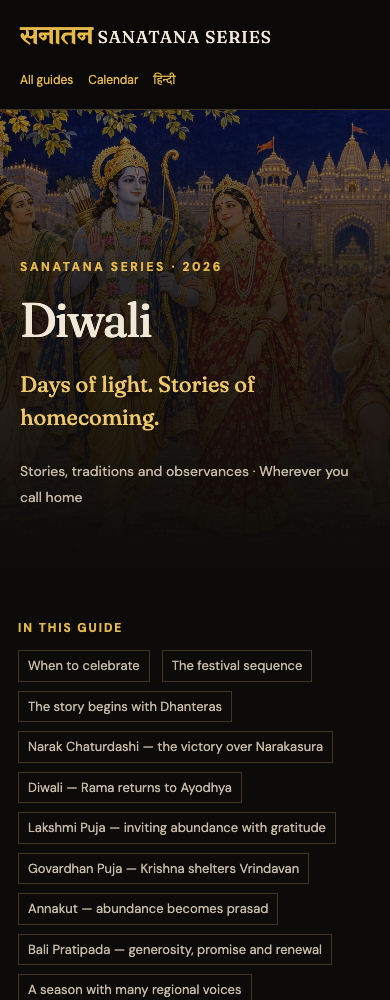
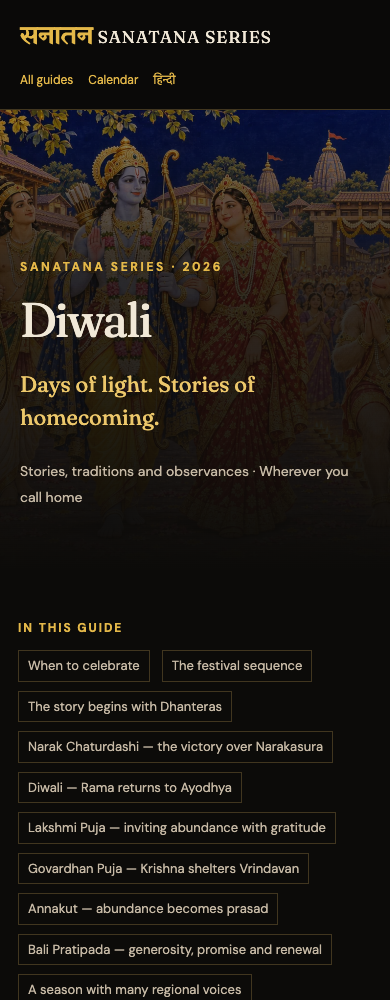
Ground festival artwork in deliberate temple and vernacular settings

Changed region(s): [[0.4, 0.124, 1.0, 0.279], [0.0, 0.124, 0.2462, 0.248]]

diff --git a/diwali-hi.html b/diwali-hi.html
@@ -12,11 +12,11 @@
 <meta property="og:url" content="https://dogvar.github.io/sanatana-series/diwali-hi.html">
 <meta property="og:locale" content="hi_IN">
 <meta property="og:locale:alternate" content="en_GB">
-<meta property="og:image" content="https://dogvar.github.io/sanatana-series/images/rama-ayodhya-2026.webp">
+<meta property="og:image" content="https://dogvar.github.io/sanatana-series/images/rama-ayodhya-2026-architecture-v2.webp">
 <meta name="twitter:card" content="summary_large_image"></head><body class="hi"><a class="skip" href="#content">लेख पर जाएँ</a>
 <nav class="nav" aria-label="मुख्य नेविगेशन"><a class="brand" href="index.html"><b lang="hi">सनातन</b> SANATANA SERIES</a>
 <div class="navlinks"><a href="index.html#guides">सभी गाइड</a><a href="calendar.html">कैलेंडर</a><a href="diwali.html" lang="en" hreflang="en">English</a></div></nav>
-<header class="hero"><img src="images/rama-ayodhya-2026.webp" alt="" width="1672" height="941" fetchpriority="high">
+<header class="hero"><img src="images/rama-ayodhya-2026-architecture-v2.webp" alt="" width="1672" height="941" fetchpriority="high">
 <div class="hero-content">
 <div class="eyebrow">SANATANA SERIES · 2026</div>
 <h1>दीपावली</h1>
@@ -42,7 +42,7 @@
 <p class="when-source">ऊपर दी गई तिथि दृक पंचांग की नई दिल्ली सूची का संदर्भ है। स्थानीय तिथि और मुहूर्त अलग हो सकते हैं।</p>
 <details><summary>तिथियाँ अलग क्यों हो सकती हैं?</summary><p>त्योहार चंद्रतिथि और पूजा के लिए निर्धारित समय पर निर्भर करते हैं। सूर्योदय, सूर्यास्त और क्षेत्रीय परंपरा के कारण विदेश में किसी पर्व का दिन भारत से अलग हो सकता है। अपने शहर और परंपरा का पंचांग देखें।</p></details>
 </section>
-<section class="chapter" id="sequence"><h2>दीपावली का पर्व-क्रम</h2><div class="dates"><div class="festival-day"><img src="images/dhanvantari-2026.webp" alt="" width="1672" height="941" loading="lazy" decoding="async"><div class="festival-day-label"><strong>धनतेरस</strong>कृष्ण त्रयोदशी</div></div><div class="festival-day"><img src="images/narakasura-2026.webp" alt="" width="1672" height="941" loading="lazy" decoding="async"><div class="festival-day-label"><strong>नरक चतुर्दशी</strong>कृष्ण चतुर्दशी</div></div><div class="festival-day"><img src="images/lakshmi-puja-2026.webp" alt="" width="1536" height="1024" loading="lazy" decoding="async"><div class="festival-day-label"><strong>दीपावली / लक्ष्मी पूजा</strong>अमावस्या</div></div><div class="festival-day"><img src="images/govardhan-2026.webp" alt="" width="1672" height="941" loading="lazy" decoding="async"><div class="festival-day-label"><strong>गोवर्धन / अन्नकूट / बलि प्रतिपदा</strong>शुक्ल प्रतिपदा की परंपराएँ</div></div><div class="festival-day"><img src="images/yama-yamuna-2026.webp" alt="" width="1672" height="941" loading="lazy" decoding="async"><div class="festival-day-label"><strong>भाई दूज</strong>शुक्ल द्वितीया</div></div></div><p>यह चंद्रतिथियों पर आधारित पारंपरिक क्रम है। हर क्षेत्र में सभी पर्व लगातार पाँच कैलेंडर दिनों में नहीं पड़ते। अभ्यंग स्नान, मंदिर के अन्नकूट और अन्य स्थानीय आयोजनों का समय अलग से देखें।</p></section>
+<section class="chapter" id="sequence"><h2>दीपावली का पर्व-क्रम</h2><div class="dates"><div class="festival-day"><img src="images/dhanvantari-2026.webp" alt="" width="1672" height="941" loading="lazy" decoding="async"><div class="festival-day-label"><strong>धनतेरस</strong>कृष्ण त्रयोदशी</div></div><div class="festival-day"><img src="images/narakasura-2026-architecture-v2.webp" alt="" width="1672" height="941" loading="lazy" decoding="async"><div class="festival-day-label"><strong>नरक चतुर्दशी</strong>कृष्ण चतुर्दशी</div></div><div class="festival-day"><img src="images/lakshmi-puja-2026.webp" alt="" width="1536" height="1024" loading="lazy" decoding="async"><div class="festival-day-label"><strong>दीपावली / लक्ष्मी पूजा</strong>अमावस्या</div></div><div class="festival-day"><img src="images/govardhan-2026.webp" alt="" width="1672" height="941" loading="lazy" decoding="async"><div class="festival-day-label"><strong>गोवर्धन / अन्नकूट / बलि प्रतिपदा</strong>शुक्ल प्रतिपदा की परंपराएँ</div></div><div class="festival-day"><img src="images/yama-yamuna-2026-architecture-v2.webp" alt="" width="1672" height="941" loading="lazy" decoding="async"><div class="festival-day-label"><strong>भाई दूज</strong>शुक्ल द्वितीया</div></div></div><p>यह चंद्रतिथियों पर आधारित पारंपरिक क्रम है। हर क्षेत्र में सभी पर्व लगातार पाँच कैलेंडर दिनों में नहीं पड़ते। अभ्यंग स्नान, मंदिर के अन्नकूट और अन्य स्थानीय आयोजनों का समय अलग से देखें।</p></section>
 
 <section class="chapter" id="chapter-1">
 <h2>धनतेरस — आरोग्य और समृद्धि</h2>
@@ -56,7 +56,7 @@
 
 <section class="chapter" id="chapter-2">
 <h2>नरक चतुर्दशी — नरकासुर का अंत</h2>
-<figure><img loading="lazy" decoding="async" width="1672" height="941" src="images/narakasura-2026.webp" alt="नरकासुर के नगर के ऊपर गरुड़ पर श्रीकृष्ण और सत्यभामा।"><figcaption>मौलिक कल्पनात्मक चित्रण; धार्मिक घटना का ऐतिहासिक प्रमाण नहीं।</figcaption></figure>
+<figure><img loading="lazy" decoding="async" width="1672" height="941" src="images/narakasura-2026-architecture-v2.webp" alt="नरकासुर के नगर के ऊपर गरुड़ पर श्रीकृष्ण और सत्यभामा।"><figcaption>मौलिक कल्पनात्मक चित्रण; धार्मिक घटना का ऐतिहासिक प्रमाण नहीं।</figcaption></figure>
 <p>लोकप्रचलित कथाओं में नरकासुर के अत्याचारों का अंत श्रीकृष्ण करते हैं। कुछ परम्पराओं में सत्यभामा की भूमिका विशेष महत्त्व रखती है। यह कथा अन्याय से मुक्ति और मानवीय गरिमा की रक्षा का संदेश देती है।</p>
 
 <p>कई घरों में प्रातः तेल लगाकर <strong>अभ्यंग स्नान</strong> किया जाता है। दक्षिण भारत की कुछ परम्पराओं में यही दीपावली का मुख्य उत्सव है। काली चौदस की अपनी अलग क्षेत्रीय रीति भी है।</p>
@@ -68,7 +68,7 @@
 
 <section class="chapter" id="chapter-3">
 <h2>अयोध्या में श्रीराम का स्वागत</h2>
-<figure><img loading="lazy" decoding="async" width="1672" height="941" src="images/rama-ayodhya-2026.webp" alt="अयोध्या में दीपों से होता राम, सीता, लक्ष्मण और हनुमान का स्वागत।"><figcaption>मौलिक कल्पनात्मक चित्रण; धार्मिक घटना का ऐतिहासिक प्रमाण नहीं।</figcaption></figure>
+<figure><img loading="lazy" decoding="async" width="1672" height="941" src="images/rama-ayodhya-2026-architecture-v2.webp" alt="अयोध्या में दीपों से होता राम, सीता, लक्ष्मण और हनुमान का स्वागत।"><figcaption>मौलिक कल्पनात्मक चित्रण; धार्मिक घटना का ऐतिहासिक प्रमाण नहीं।</figcaption></figure>
 <p>रामायण से जुड़ी दीपावली की परम्परा में वनवास और रावण-वध के बाद श्रीराम, सीता और लक्ष्मण का अयोध्या लौटना स्मरण किया जाता है। दीपों से जगमगाता नगर घर-वापसी, धर्म और आशा का प्रतीक बनता है।</p>
 
 <p>यह दीपावली से जुड़ी अनेक परम्पराओं में से एक है। भारत के विभिन्न क्षेत्रों में इस पर्व की कथाएँ और रीति-रिवाज भिन्न हैं।</p>
@@ -116,7 +116,7 @@
 
 <section class="chapter" id="regions">
 <h2>एक पर्व-काल, अनेक परंपराएँ</h2>
-<figure><img loading="lazy" decoding="async" width="1774" height="887" src="images/regional-diwali-festival-2026.webp" alt="तीन क्षेत्रीय परंपराएँ: बंगाल की काली पूजा, दक्षिण भारतीय कोलम व दीप, और महाराष्ट्र का आकाशकंदील।"><figcaption>दीपों के एक पर्व-काल में अनेक क्षेत्रीय परंपराएँ अपनी अलग पहचान बनाए रखती हैं।</figcaption></figure>
+<figure><img loading="lazy" decoding="async" width="1774" height="887" src="images/regional-diwali-festival-2026-architecture-v2.webp" alt="तीन क्षेत्रीय परंपराएँ: बंगाल की काली पूजा, दक्षिण भारतीय कोलम व दीप, और महाराष्ट्र का आकाशकंदील।"><figcaption>दीपों के एक पर्व-काल में अनेक क्षेत्रीय परंपराएँ अपनी अलग पहचान बनाए रखती हैं।</figcaption></figure>
 <p>उत्तर भारत में राम का स्वागत, लक्ष्मी-गणेश पूजा और घर की दीपमालाएँ प्रमुख हैं। तमिल और तेलुगु परिवारों सहित दक्षिण की अनेक परंपराओं में नरक चतुर्दशी का प्रातः स्नान, नए वस्त्र और विशेष भोजन केंद्र में रहते हैं। किसी एक प्रांत की विधि को सबकी अनिवार्य विधि न समझें।</p>
 
 <p>बंगाल तथा पूर्वी भारत के कुछ भागों में काली पूजा का विशेष महत्त्व है। गुजरात में बहीखाता पूजन और नए वर्ष का स्वागत प्रमुख है; महाराष्ट्र में वसुबारस, धनत्रयोदशी, पाडवा और भाऊबीज परिवार की स्मृतियों को जोड़ते हैं। रीति, भोजन और नाम समुदाय के भीतर भी बदल सकते हैं।</p>
@@ -126,7 +126,7 @@
 
 <section class="chapter" id="chapter-7">
 <h2>भाई दूज — स्नेह और मंगलकामना</h2>
-<figure><img loading="lazy" decoding="async" width="1672" height="941" src="images/yama-yamuna-2026.webp" alt="नदी के निकट आँगन में भाई यम को तिलक लगाती यमुना।"><figcaption>मौलिक कल्पनात्मक चित्रण; धार्मिक घटना का ऐतिहासिक प्रमाण नहीं।</figcaption></figure>
+<figure><img loading="lazy" decoding="async" width="1672" height="941" src="images/yama-yamuna-2026-architecture-v2.webp" alt="नदी के निकट आँगन में भाई यम को तिलक लगाती यमुना।"><figcaption>मौलिक कल्पनात्मक चित्रण; धार्मिक घटना का ऐतिहासिक प्रमाण नहीं।</figcaption></figure>
 <p>भाई दूज, यम द्वितीया या भाऊबीज भाई-बहन के प्रेम और एक-दूसरे की कुशलता की कामना का पर्व है। एक कथा में यमुना अपने भाई यम का स्वागत करती हैं और उन्हें तिलक लगाती हैं।</p>
 
 <p>तिलक के लिए स्थानीय द्वितीया तिथि और अपनी परंपरा का अपराह्न काल देखें। अलग देशों में रहने वाले भाई-बहन दोनों घरों की परंपरा का सम्मान करते हुए बातचीत और शुभकामना का समय तय कर सकते हैं।</p>

diff --git a/diwali.html b/diwali.html
@@ -12,11 +12,11 @@
 <meta property="og:url" content="https://dogvar.github.io/sanatana-series/diwali.html">
 <meta property="og:locale" content="en_GB">
 <meta property="og:locale:alternate" content="hi_IN">
-<meta property="og:image" content="https://dogvar.github.io/sanatana-series/images/rama-ayodhya-2026.webp">
+<meta property="og:image" content="https://dogvar.github.io/sanatana-series/images/rama-ayodhya-2026-architecture-v2.webp">
 <meta name="twitter:card" content="summary_large_image"></head><body class="en"><a class="skip" href="#content">Skip to content</a>
 <nav class="nav" aria-label="Main navigation"><a class="brand" href="index.html"><b lang="hi">सनातन</b> SANATANA SERIES</a>
 <div class="navlinks"><a href="index.html#guides">All guides</a><a href="calendar.html">Calendar</a><a href="diwali-hi.html" lang="hi" hreflang="hi">हिन्दी</a></div></nav>
-<header class="hero"><img src="images/rama-ayodhya-2026.webp" alt="" width="1672" height="941" fetchpriority="high">
+<header class="hero"><img src="images/rama-ayodhya-2026-architecture-v2.webp" alt="" width="1672" height="941" fetchpriority="high">
 <div class="hero-content">
 <div class="eyebrow">SANATANA SERIES · 2026</div>
 <h1>Diwali</h1>
@@ -42,7 +42,7 @@
 <p class="when-source">Reference date: Drik Panchang’s New Delhi listing. Your local observance date and puja window may differ.</p>
 <details><summary>Why can dates differ?</summary><p>Festivals follow lunar tithis and the time prescribed for each observance. Local sunrise, sunset and regional traditions can place an observance on a different civil date. Follow the panchang used by your household or temple.</p></details>
 </section>
-<section class="chapter" id="sequence"><h2>The Diwali festival sequence</h2><div class="dates"><div class="festival-day"><img src="images/dhanvantari-2026.webp" alt="" width="1672" height="941" loading="lazy" decoding="async"><div class="festival-day-label"><strong>Dhanteras</strong>Krishna Trayodashi</div></div><div class="festival-day"><img src="images/narakasura-2026.webp" alt="" width="1672" height="941" loading="lazy" decoding="async"><div class="festival-day-label"><strong>Narak Chaturdashi</strong>Krishna Chaturdashi</div></div><div class="festival-day"><img src="images/lakshmi-puja-2026.webp" alt="" width="1536" height="1024" loading="lazy" decoding="async"><div class="festival-day-label"><strong>Diwali / Lakshmi Puja</strong>Amavasya</div></div><div class="festival-day"><img src="images/govardhan-2026.webp" alt="" width="1672" height="941" loading="lazy" decoding="async"><div class="festival-day-label"><strong>Govardhan / Annakut / Bali Pratipada</strong>Shukla Pratipada traditions</div></div><div class="festival-day"><img src="images/yama-yamuna-2026.webp" alt="" width="1672" height="941" loading="lazy" decoding="async"><div class="festival-day-label"><strong>Bhai Dooj</strong>Shukla Dwitiya</div></div></div><p>This is the traditional lunar sequence. The observances do not always fit five consecutive civil dates in every region. Check ritual-specific timings for the abhyanga bath and your temple’s Annakut programme.</p></section>
+<section class="chapter" id="sequence"><h2>The Diwali festival sequence</h2><div class="dates"><div class="festival-day"><img src="images/dhanvantari-2026.webp" alt="" width="1672" height="941" loading="lazy" decoding="async"><div class="festival-day-label"><strong>Dhanteras</strong>Krishna Trayodashi</div></div><div class="festival-day"><img src="images/narakasura-2026-architecture-v2.webp" alt="" width="1672" height="941" loading="lazy" decoding="async"><div class="festival-day-label"><strong>Narak Chaturdashi</strong>Krishna Chaturdashi</div></div><div class="festival-day"><img src="images/lakshmi-puja-2026.webp" alt="" width="1536" height="1024" loading="lazy" decoding="async"><div class="festival-day-label"><strong>Diwali / Lakshmi Puja</strong>Amavasya</div></div><div class="festival-day"><img src="images/govardhan-2026.webp" alt="" width="1672" height="941" loading="lazy" decoding="async"><div class="festival-day-label"><strong>Govardhan / Annakut / Bali Pratipada</strong>Shukla Pratipada traditions</div></div><div class="festival-day"><img src="images/yama-yamuna-2026-architecture-v2.webp" alt="" width="1672" height="941" loading="lazy" decoding="async"><div class="festival-day-label"><strong>Bhai Dooj</strong>Shukla Dwitiya</div></div></div><p>This is the traditional lunar sequence. The observances do not always fit five consecutive civil dates in every region. Check ritual-specific timings for the abhyanga bath and your temple’s Annakut programme.</p></section>
 
 <section class="chapter" id="chapter-1">
 <h2>The story begins with Dhanteras</h2>
@@ -56,7 +56,7 @@
 
 <section class="chapter" id="chapter-2">
 <h2>Narak Chaturdashi — the victory over Narakasura</h2>
-<figure><img loading="lazy" decoding="async" width="1672" height="941" src="images/narakasura-2026.webp" alt="Krishna and Satyabhama on Garuda above the gates of Narakasura’s city."><figcaption>Original interpretive illustration; not a historical reconstruction.</figcaption></figure>
+<figure><img loading="lazy" decoding="async" width="1672" height="941" src="images/narakasura-2026-architecture-v2.webp" alt="Krishna and Satyabhama on Garuda above the gates of Narakasura’s city."><figcaption>Original interpretive illustration; not a historical reconstruction.</figcaption></figure>
 <p>Traditions recount that Narakasura, a tyrannical ruler, caused suffering and held many women captive. Krishna defeats him; in some retellings Satyabhama plays a decisive role. The story celebrates the end of oppression and the restoration of dignity, not violence for its own sake.</p>
 
 <p>In many communities people rise early for an oil massage and ritual bath called <strong>abhyanga snan</strong>, then light lamps and prepare festive food. In parts of southern India this is the central Deepavali morning. Kali Chaudas has distinct regional practices, especially in western India.</p>
@@ -68,7 +68,7 @@
 
 <section class="chapter" id="chapter-3">
 <h2>Diwali — Rama returns to Ayodhya</h2>
-<figure><img loading="lazy" decoding="async" width="1672" height="941" src="images/rama-ayodhya-2026.webp" alt="Rama, Sita, Lakshmana and Hanuman welcomed with lamps in Ayodhya."><figcaption>Original interpretive illustration; not a historical reconstruction.</figcaption></figure>
+<figure><img loading="lazy" decoding="async" width="1672" height="941" src="images/rama-ayodhya-2026-architecture-v2.webp" alt="Rama, Sita, Lakshmana and Hanuman welcomed with lamps in Ayodhya."><figcaption>Original interpretive illustration; not a historical reconstruction.</figcaption></figure>
 <p>In the Ramayana tradition, Rama returns to Ayodhya with Sita and Lakshmana after years in exile and the defeat of Ravana. Later festival tradition remembers the city illuminated in welcome. The lamps evoke a homecoming: truth, loyalty and the hope that hardship does not have the last word.</p>
 
 <p>This is one of several meanings of Diwali, not the only origin of the festival. Different regions remember different divine stories and historical events, yet share the language of light, renewal and community.</p>
@@ -116,7 +116,7 @@
 
 <section class="chapter" id="regions">
 <h2>A season with many regional voices</h2>
-<figure><img loading="lazy" decoding="async" width="1774" height="887" src="images/regional-diwali-festival-2026.webp" alt="Three regional celebrations: Bengali Kali Puja, a South Indian kolam and lamps, and a Maharashtrian akash kandil."><figcaption>Distinct regional traditions share a season of light; their rituals retain their own identities.</figcaption></figure>
+<figure><img loading="lazy" decoding="async" width="1774" height="887" src="images/regional-diwali-festival-2026-architecture-v2.webp" alt="Three regional celebrations: Bengali Kali Puja, a South Indian kolam and lamps, and a Maharashtrian akash kandil."><figcaption>Distinct regional traditions share a season of light; their rituals retain their own identities.</figcaption></figure>
 <p>In much of northern India, Rama’s welcome, Lakshmi-Ganesha worship and household lamps are prominent. In many southern traditions, including Tamil and Telugu households, the Naraka morning bath, new clothes and festive food take a central place. One region’s sequence is not a universal rule.</p>
 
 <p>Kali Puja has particular importance in Bengal and parts of eastern India. Gujarati traditions emphasize account-book worship and the new year; Maharashtra’s Vasu Baras, Dhantrayodashi, Padwa and Bhau Beej connect the season to household life. Names, foods and practices also vary within each region.</p>
@@ -126,7 +126,7 @@
 
 <section class="chapter" id="chapter-7">
 <h2>Bhai Dooj — a blessing between siblings</h2>
-<figure><img loading="lazy" decoding="async" width="1672" height="941" src="images/yama-yamuna-2026.webp" alt="Yamuna applies tilak to her brother Yama beside a river courtyard."><figcaption>Original interpretive illustration; not a historical reconstruction.</figcaption></figure>
+<figure><img loading="lazy" decoding="async" width="1672" height="941" src="images/yama-yamuna-2026-architecture-v2.webp" alt="Yamuna applies tilak to her brother Yama beside a river courtyard."><figcaption>Original interpretive illustration; not a historical reconstruction.</figcaption></figure>
 <p>Bhai Dooj, also called Yama Dwitiya or Bhau Beej, celebrates the affection and mutual care of siblings. A familiar story tells of Yama visiting his sister Yamuna, who welcomes him with hospitality and a ceremonial tilak. In many households sisters bless brothers and share sweets; the underlying message of reciprocal care belongs to all siblings.</p>
 
 <p>For the tilak ceremony, check the local Dwitiya tithi and the afternoon window followed by your tradition. Siblings in different countries may need to agree on a time while respecting each household’s observance.</p>

diff --git a/dhanteras-hi.html b/dhanteras-hi.html
@@ -70,7 +70,7 @@
 
 <section class="chapter" id="hima">
 <h2>राजकुमार, सर्प और प्रकाश की लोककथा</h2>
-<figure><img loading="lazy" decoding="async" width="1536" height="1024" src="images/hima-vigil-2026.webp" alt="दीपों के बीच पति के साथ जागती नववधू और द्वार के बाहर ठहरा सर्प।"><figcaption>मौलिक कल्पनात्मक चित्रण; धार्मिक घटना का ऐतिहासिक प्रमाण नहीं।</figcaption></figure>
+<figure><img loading="lazy" decoding="async" width="1536" height="1024" src="images/hima-vigil-2026-architecture-v2.webp" alt="दीपों के बीच पति के साथ जागती नववधू और द्वार के बाहर ठहरा सर्प।"><figcaption>मौलिक कल्पनात्मक चित्रण; धार्मिक घटना का ऐतिहासिक प्रमाण नहीं।</figcaption></figure>
 <p>एक लोकप्रिय <strong>लोककथा</strong> में राजा हिम के पुत्र की कुंडली में विवाह के चौथे दिन सर्पदंश से मृत्यु का योग बताया गया था। नववधू ने भय के आगे हार नहीं मानी। उसने द्वार पर आभूषण और सिक्के रखे, दीप जलाए और गीत-कथाओं से पति को पूरी रात जगाए रखा।</p>
 
 <p>कथा के अनुसार यम सर्प रूप में आए, पर दीपों की चमक और आभूषणों के तेज से ठिठक गए; सुबह हो गई और राजकुमार बच गया। इस लोककथा के रूपांतर अलग हैं। इसका भाव साहस, प्रेम और सजगता है—इसे दुर्घटना या बीमारी से सुरक्षा की वास्तविक गारंटी नहीं मानना चाहिए।</p>
@@ -88,7 +88,7 @@
 
 <section class="chapter" id="purchase">
 <h2>नया बर्तन खरीदने की परंपरा</h2>
-<figure><img loading="lazy" decoding="async" width="1672" height="941" src="images/vessels-festival-2026.webp" alt="धनतेरस के दीप और फूलों से सजे कारीगर के यहाँ उपयोगी पात्र चुनते माता-पिता और बच्चा।"><figcaption>सोच-समझकर चुना एक उपयोगी पात्र भी धनतेरस की भावना व्यक्त कर सकता है।</figcaption></figure>
+<figure><img loading="lazy" decoding="async" width="1672" height="941" src="images/vessels-festival-2026-architecture-v2.webp" alt="धनतेरस के दीप और फूलों से सजे कारीगर के यहाँ उपयोगी पात्र चुनते माता-पिता और बच्चा।"><figcaption>सोच-समझकर चुना एक उपयोगी पात्र भी धनतेरस की भावना व्यक्त कर सकता है।</figcaption></figure>
 <p>धनतेरस पर नया बर्तन, चाँदी का सिक्का, आभूषण या घर की उपयोगी वस्तु लाने की परंपरा है। यह समृद्धि के स्वागत और गृहस्थी की जिम्मेदारी का प्रतीक है। अपनी सामर्थ्य से अधिक खर्च करना कोई धार्मिक आवश्यकता नहीं है।</p>
 
 <p>विद्यार्थी या युवा परिवार के लिए एक साधारण कटोरी, बजट लिखने की कॉपी या जरूरतमंद की सहायता भी इस दिन का अर्थ प्रकट कर सकती है। केवल दिखावे के लिए कर्ज लेना त्योहार की मूल भावना से दूर ले जाता है। सोना-चाँदी खरीदें तो शुद्धता, मूल्य और रसीद अवश्य जाँचें।</p>

diff --git a/dhanteras.html b/dhanteras.html
@@ -70,7 +70,7 @@
 
 <section class="chapter" id="hima">
 <h2>The prince, the serpent and a night of light</h2>
-<figure><img loading="lazy" decoding="async" width="1536" height="1024" src="images/hima-vigil-2026.webp" alt="A bride keeps a lamplit vigil beside her husband while a serpent pauses outside."><figcaption>Original interpretive illustration; not a historical reconstruction.</figcaption></figure>
+<figure><img loading="lazy" decoding="async" width="1536" height="1024" src="images/hima-vigil-2026-architecture-v2.webp" alt="A bride keeps a lamplit vigil beside her husband while a serpent pauses outside."><figcaption>Original interpretive illustration; not a historical reconstruction.</figcaption></figure>
 <p>A much-loved <strong>folk legend</strong> tells of King Hima’s son, whose horoscope foretold death by snakebite on the fourth night after his wedding. His young wife refused to surrender to fear. She placed ornaments and coins at the doorway, lit lamps everywhere, and kept her husband awake with songs and stories.</p>
 
 <p>When Yama approached in the form of a serpent, the dazzling light and the bright heap of ornaments delayed him until dawn. The prince survived. Versions of the tale differ in details, but its emotional heart remains the same: courage, alertness and love can turn a night of dread into one of hope. It is folklore, not a guarantee that lamps or valuables prevent harm.</p>
@@ -88,7 +88,7 @@
 
 <section class="chapter" id="purchase">
 <h2>Why people bring home a new vessel</h2>
-<figure><img loading="lazy" decoding="async" width="1672" height="941" src="images/vessels-festival-2026.webp" alt="A parent and child choose a useful vessel beside brass bowls, flowers and a Dhanteras lamp."><figcaption>A useful vessel, chosen with care, can carry the meaning of Dhanteras.</figcaption></figure>
+<figure><img loading="lazy" decoding="async" width="1672" height="941" src="images/vessels-festival-2026-architecture-v2.webp" alt="A parent and child choose a useful vessel beside brass bowls, flowers and a Dhanteras lamp."><figcaption>A useful vessel, chosen with care, can carry the meaning of Dhanteras.</figcaption></figure>
 <p>Across many communities, Dhanteras is a day to buy something durable: a small brass or steel utensil, a silver coin, jewellery or an item genuinely useful to the home. The object is a symbol of welcoming abundance and caring for household resources. It is not a requirement to spend beyond your means.</p>
 
 <p>For a student or young family, even a simple kitchen bowl, a notebook for financial planning, or a contribution to someone in need can express the day’s spirit. Buying on credit merely to follow a trend misses the deeper message. If purchasing precious metals, compare prices and purity and keep receipts.</p>

diff --git a/index.html b/index.html
@@ -384,7 +384,7 @@ var G=[
   d:'Dhanvantari, the churning ocean, the Yama lamp and the meaning of wealth. Festival dates and guidance for celebrating wherever you live.'},
  {c:'festivals',h:'diwali.html',hi:'diwali-hi.html',s:'2026-11-08',
   k:'The festival of lights',t:'Diwali',dv:'दीपावली',motif:'lamp',hue:35,
-  img:'images/rama-ayodhya-2026.webp',
+  img:'images/rama-ayodhya-2026-architecture-v2.webp',
   d:'The full Diwali season: Naraka, Rama, Lakshmi Puja, Govardhan, Annakut, Bali and Bhai Dooj. Regional dates explained.'},
 
  {c:'epics',h:'gita.html',hi:'gita-hi.html',ever:1,k:'Scripture',t:'Bhagavad Gita',dv:'भगवद्गीता',

diff --git a/docs/illustration-architecture-review.md b/docs/illustration-architecture-review.md
@@ -1,0 +1,36 @@
+# Illustration setting and architecture review
+
+Reviewed 5 November 2026 for the Dhanteras and Diwali guide pair after the owner flagged the architectural vocabulary.
+
+## Editorial finding
+
+The broad phrase “Indian miniature-inspired” did not constrain architecture sufficiently. Several images acquired a generic later court-palace vocabulary: domed pavilions, ornate cusped portals and decorative arcades, including in imagined epic settings. Those backdrops were not supported by a story-specific architectural brief and needed correction.
+
+A building's religion cannot be reliably inferred from one arch shape. Hindu temple shrine frames, ritual canopies and regional domestic architecture should not be rejected simply because they contain curves or share artistic vocabulary with other traditions. The review distinguishes narrative/region fit from unsupported religious labeling.
+
+## Targeted revisions
+
+| Illustration | Problem addressed | Revised direction |
+|---|---|---|
+| Rama's return | Generic later palace gateway, domed skyline and cusped galleries | Imagined timber/stone city, straight post-and-lintel gateways, pillared verandas and distant North Indian temple shikharas; no claim to reconstruct ancient Ayodhya |
+| Krishna and Narakasura | Generic domed court-fort | Imagined hill fort with masonry ramparts, timber buildings, pitched roofs and a rectangular gateway; no imposed temple in the asura city |
+| Hima household folklore | Palace portal and distant domed pavilion unrelated to the household tale | Timber-and-stone veranda, straight lintels, rectangular doors and simple pitched garden canopy |
+| Yama and Yamuna | Generic domed river pavilions | Open ritual mandapa, stone pillars, straight lintels and regional temple forms beyond the river steps |
+| Dhanteras vessels | Craft shop rendered as an elaborate palace | Vernacular timber craft shop, rectangular opening, shelves and lime-plaster walls |
+| Regional triptych | A repeated architectural arch imposed across three distinct regional scenes | Straight rectangular panels and botanical ornament; Bengali pandal, South Indian courtyard and Maharashtrian home retain their separate settings |
+
+Original paintings are retained as superseded assets. Active article, homepage, overview-card and social-preview references point to versioned revised images. The asset provenance record preserves the previous prompt/path/hash alongside each revision.
+
+## Retained artwork
+
+Samudra Manthan, Dhanvantari and Govardhan primarily use cosmic/ocean/landscape settings. The household Yama lamp and family-puja scene use domestic contexts. Lakshmi, Annakut and Vamana/Bali include devotional shrine frames or ritual-pavilion elements; these are not identified as mosques or as exclusively belonging to another faith. These eight images do not require a replacement merely on the basis of a curved decorative element.
+
+## Visual reference basis
+
+- [Archaeological Survey of India, Temple Survey Project — temple components and regional styles](https://tspasibhopal.nic.in/temple/about_the_temple.html): mandapa, curvilinear northern shikhara and its crowning forms. A vocabulary reference, not evidence for the date or appearance of an epic city.
+- [National Crafts Museum — vernacular architecture and craft context](https://nationalcraftsmuseum.nic.in/about-us): domestic materials, carved craftwork and regional vernacular settings.
+- [India Cine Hub — Vishrambag Wada](https://indiacinehub.gov.in/location/vishrambag-wada): a documented Maratha wooden domestic/court building reference, used for regional craft/home vocabulary only, not as a template for an ancient epic setting.
+
+## Review limits
+
+These are AI-assisted interpretive devotional paintings. Architectural corrections do not make them archaeological reconstructions or establish the historical dating of religious narratives. Character identity, ritual context and regional details still need editorial care. No religion is associated with negative qualities, and no building is classified solely by its arch or roof shape.

diff --git a/docs/festival-workflow.md b/docs/festival-workflow.md
@@ -21,3 +21,7 @@ Install Python Playwright in a virtual environment, then run `playwright install
 ## Audience and date presentation
 
 Write for the global diaspora. Keep the guide’s opening and practical advice independent of one country. A When section separates a labeled, sourced annual reference date from its lunar observance and a clear path to local timing. Never imply that static HTML adjusts to the reader. A city-selection link should open the correct festival and year. If exact clock windows are shown in a future edition, label their city, date and timezone explicitly; do not silently infer location from a browser timezone. Preserve any location-specific research as editorial evidence rather than making it the guide’s identity.
+
+## Architectural and cultural art direction
+
+Name the story setting and regional context in every illustration brief. Generic “Indian palace” or “miniature” instructions are insufficient for epic or ritual scenes. Check buildings, gateways, roof forms, shrine frames, materials, clothing and ritual objects separately. Use documented temple/vernacular references when architecture is visible, and distinguish an interpretive setting from a historical reconstruction. Do not infer a building's religion from an arch shape alone. Preserve appropriate Hindu shrine frames and ritual pavilions; correct unsupported palace backdrops and regionally indiscriminate decorative framing. Record revisions and source references in the asset provenance file. See [the architecture review](illustration-architecture-review.md).

diff --git a/docs/validation-2026.md b/docs/validation-2026.md
@@ -20,3 +20,5 @@ Validation completed 5 November 2026. The global-diaspora revision replaces the 
 - Unrelated existing calendar dates were preserved, not re-audited. Temple schedules can change.
 
 No merge, Pages deployment, publication or default-branch write is part of this change.
+
+Architectural review: six generic palace/backdrop or framing treatments were revised using versioned images; original assets are retained. See [architecture review](illustration-architecture-review.md) for scope, sources and limits.
